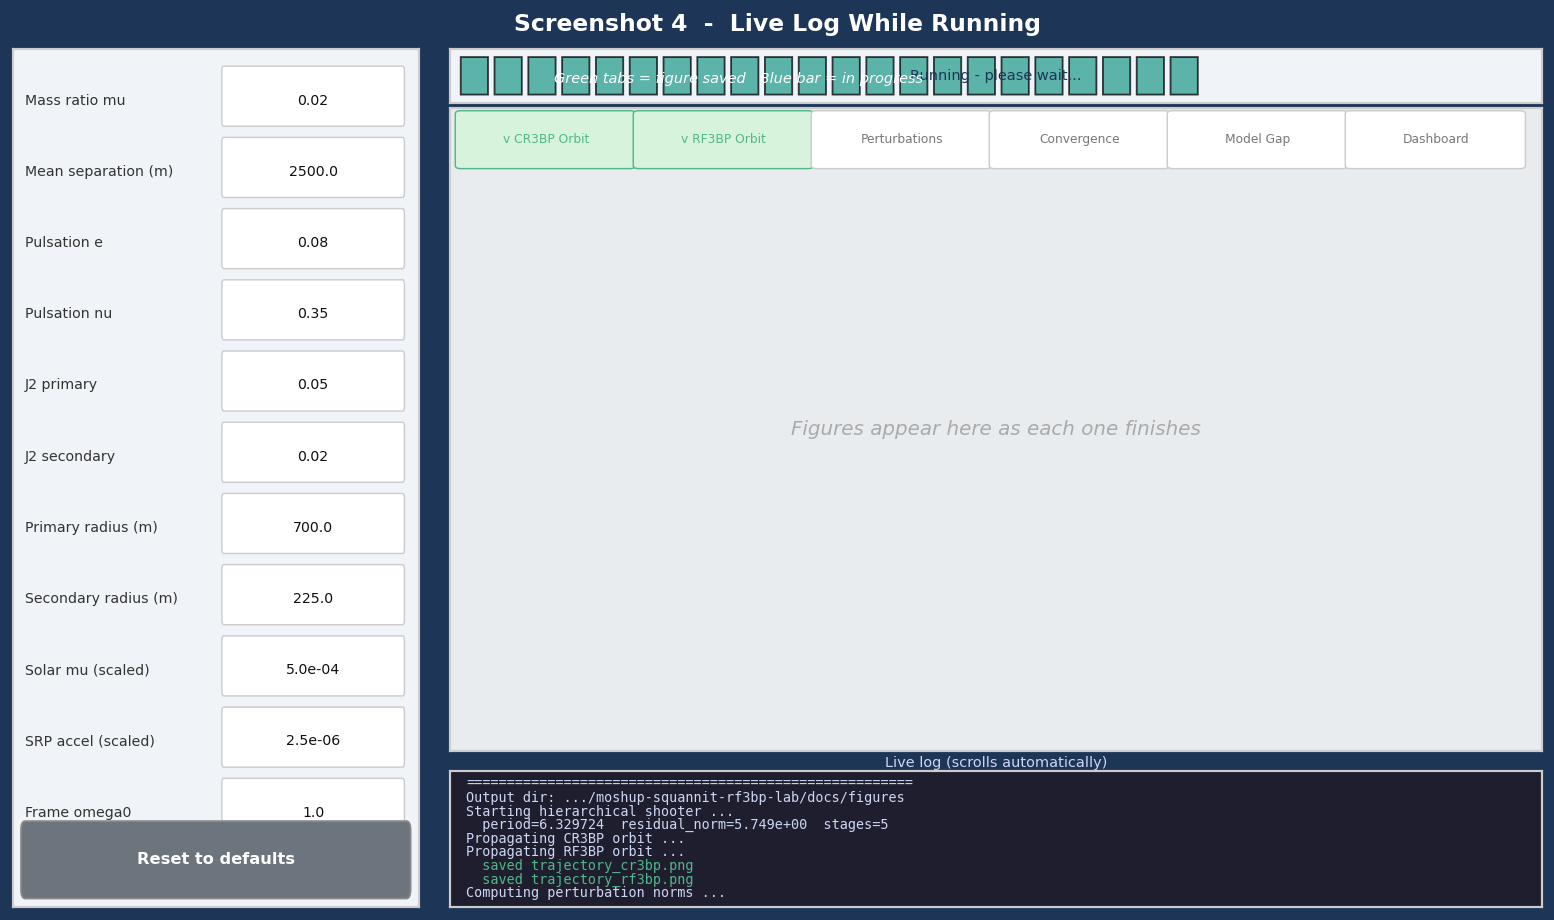
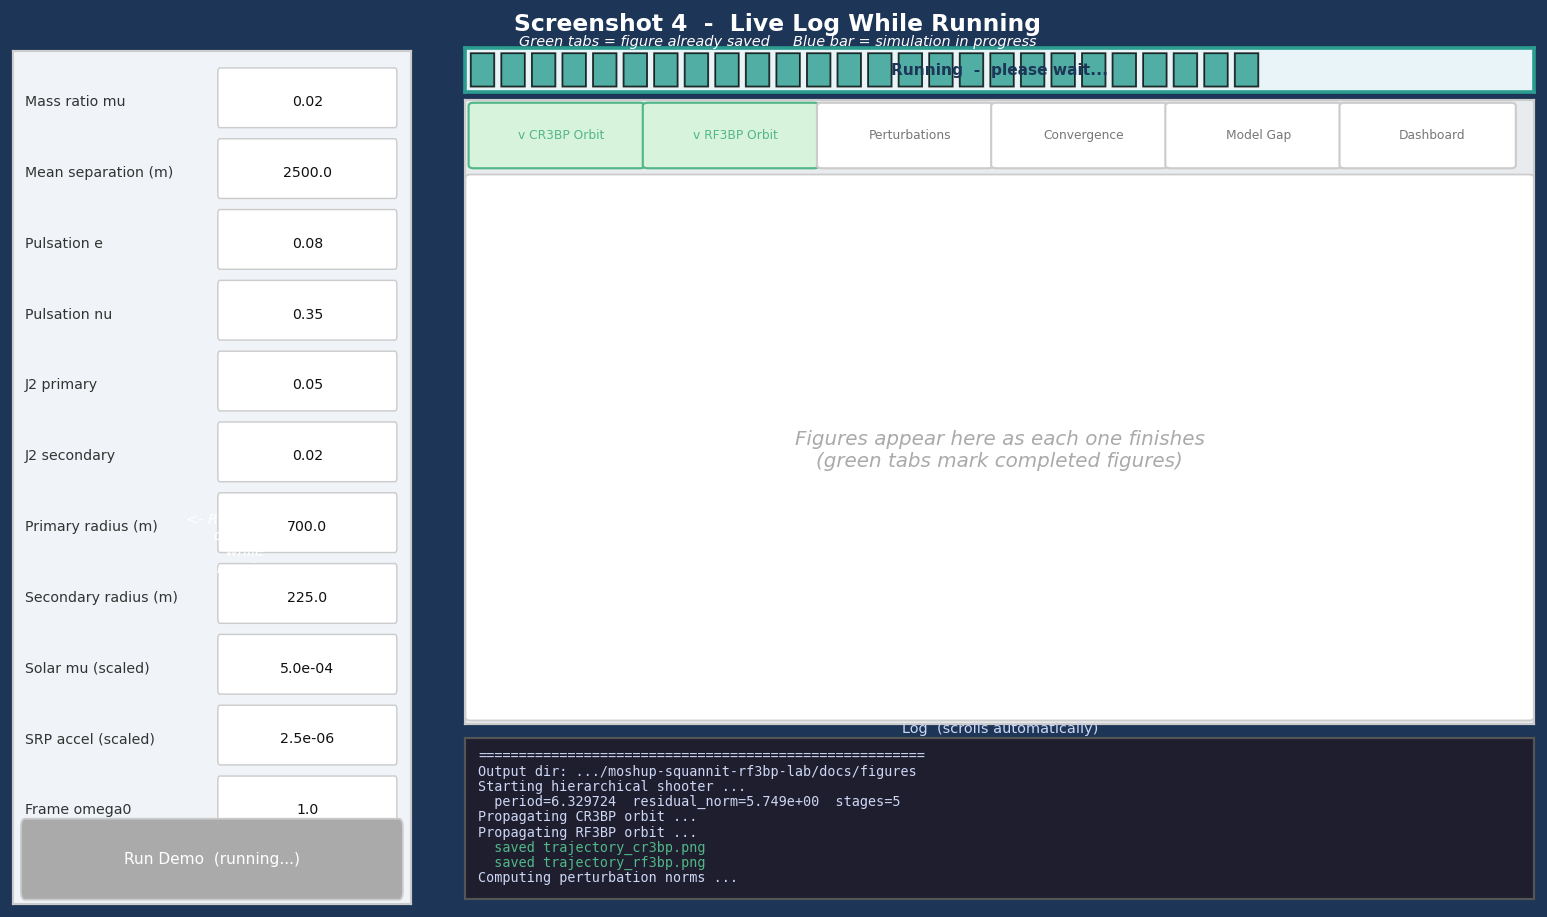
fix: replace fixed-height log with vertical splitter to prevent tab/log overlap; regenerate screenshot 4

diff --git a/scripts/gui.py b/scripts/gui.py
@@ -353,6 +353,11 @@ class MainWindow(QMainWindow):
         right = QWidget()
         right_lay = QVBoxLayout(right)
         right_lay.setContentsMargins(4, 4, 4, 4)
+        right_lay.setSpacing(0)
+
+        # Vertical splitter so the user can drag the divider between
+        # the figure tabs and the log panel - they can never overlap.
+        right_splitter = QSplitter(Qt.Vertical)
 
         self._tabs = QTabWidget()
         self._viewers: dict[str, ImageViewer] = {}
@@ -360,15 +365,21 @@ class MainWindow(QMainWindow):
             viewer = ImageViewer()
             self._viewers[fname] = viewer
             self._tabs.addTab(viewer, tab_label)
-
-        right_lay.addWidget(self._tabs, stretch=4)
+        right_splitter.addWidget(self._tabs)
 
         self._log = QPlainTextEdit()
         self._log.setReadOnly(True)
         self._log.setMaximumBlockCount(2000)
         self._log.setFont(QFont("Monospace", 9))
-        self._log.setFixedHeight(150)
-        right_lay.addWidget(self._log)
+        self._log.setMinimumHeight(80)
+        right_splitter.addWidget(self._log)
+
+        # Give tabs ~75 % of the height, log ~25 %
+        right_splitter.setStretchFactor(0, 3)
+        right_splitter.setStretchFactor(1, 1)
+        right_splitter.setSizes([580, 180])
+
+        right_lay.addWidget(right_splitter)
 
         splitter.addWidget(right)
         splitter.setStretchFactor(0, 0)
